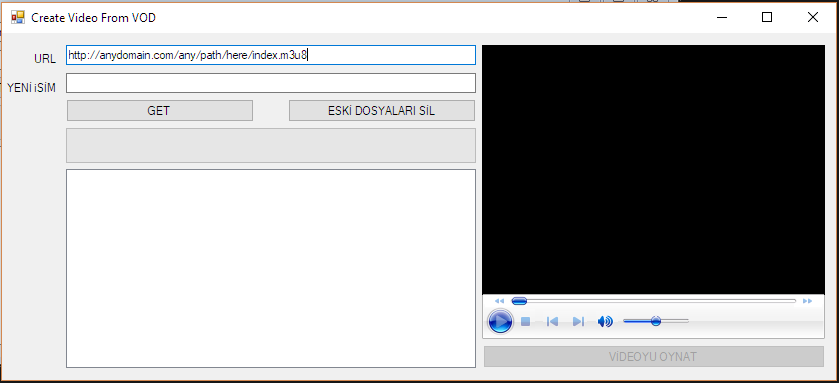
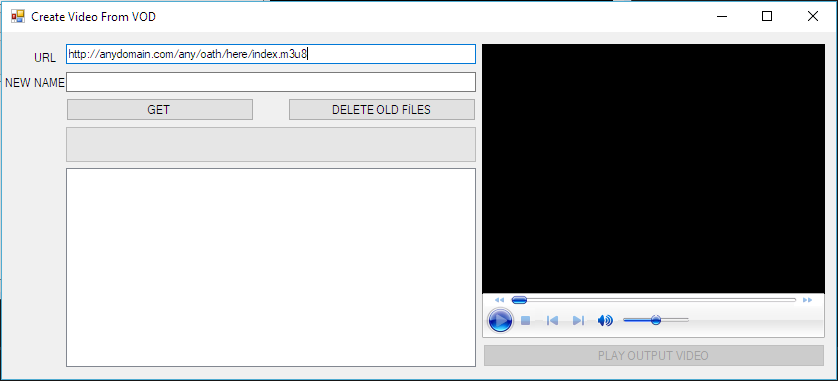
Changes some Turkish words to English words.

Changed region(s): [[0.0, 0.0, 1.0, 1.0], [0.0, 0.1155, 0.5895, 0.3176]]

diff --git a/CreateVideoFromHLS/Form1.Designer.cs b/CreateVideoFromHLS/Form1.Designer.cs
@@ -82,7 +82,7 @@
             this.button2.Name = "button2";
             this.button2.Size = new System.Drawing.Size(188, 23);
             this.button2.TabIndex = 4;
-            this.button2.Text = "ESKİ DOSYALARI SİL";
+            this.button2.Text = "DELETE OLD FİLES";
             this.button2.UseVisualStyleBackColor = true;
             this.button2.Click += new System.EventHandler(this.button2_Click);
             // 
@@ -118,18 +118,18 @@
             this.button3.Name = "button3";
             this.button3.Size = new System.Drawing.Size(342, 23);
             this.button3.TabIndex = 8;
-            this.button3.Text = "VİDEOYU OYNAT";
+            this.button3.Text = "PLAY OUTPUT VIDEO";
             this.button3.UseVisualStyleBackColor = true;
             this.button3.Click += new System.EventHandler(this.button3_Click);
             // 
             // label2
             // 
             this.label2.AutoSize = true;
-            this.label2.Location = new System.Drawing.Point(2, 48);
+            this.label2.Location = new System.Drawing.Point(0, 44);
             this.label2.Name = "label2";
-            this.label2.Size = new System.Drawing.Size(56, 13);
+            this.label2.Size = new System.Drawing.Size(67, 13);
             this.label2.TabIndex = 9;
-            this.label2.Text = "YENİ iSİM";
+            this.label2.Text = "NEW NAME";
             // 
             // textBox2
             // 
